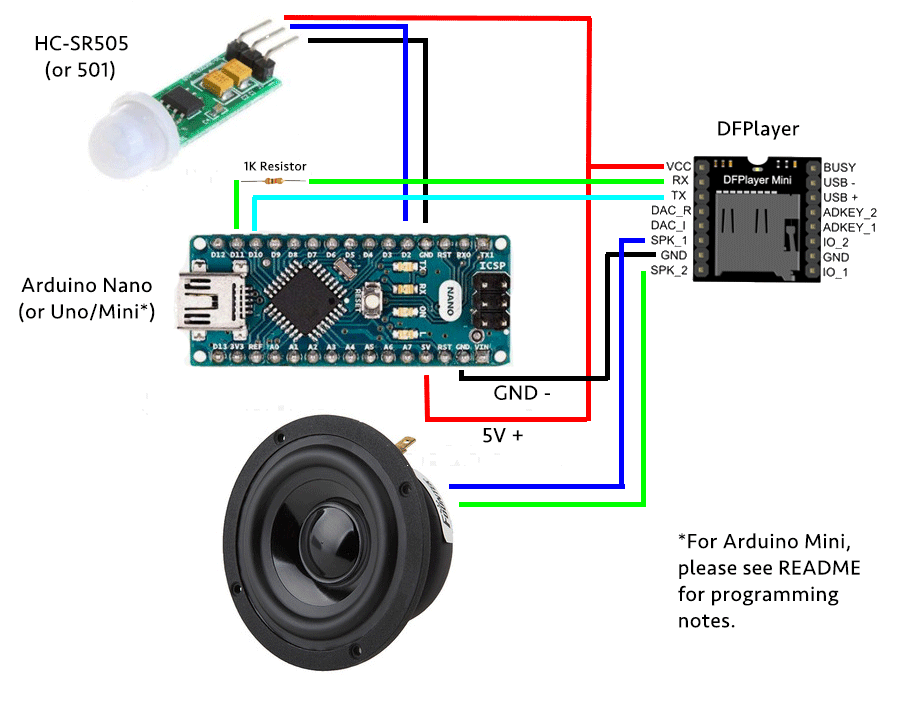
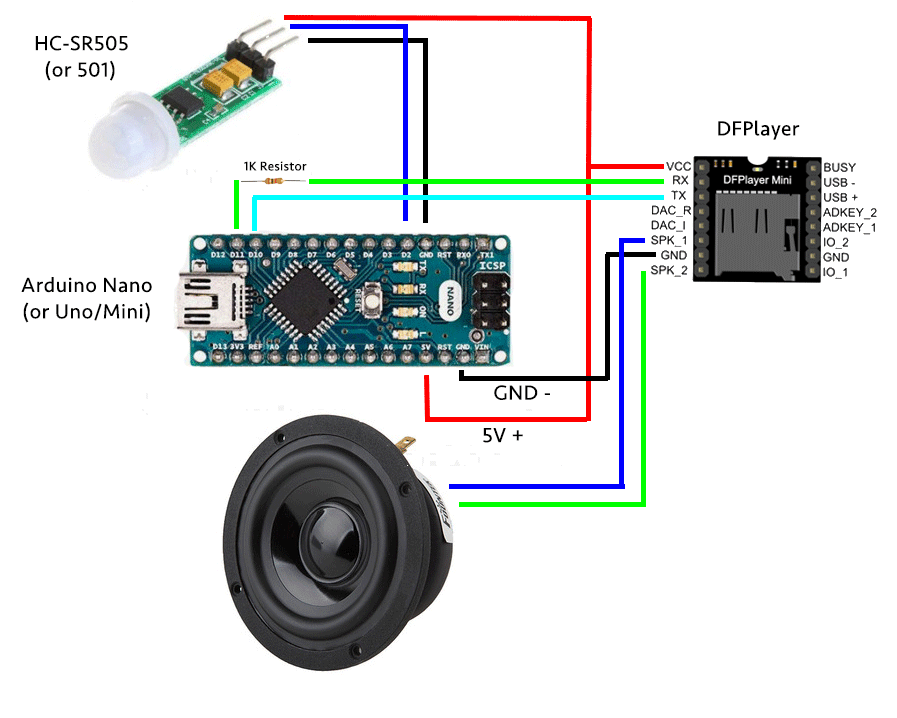
diagram updates

Changed region(s): [[0.7492, 0.7354, 0.9677, 0.8886], [0.0, 0.429, 0.1873, 0.4596], [0.2185, 0.1226, 0.2809, 0.1838]]

diff --git a/README.md b/README.md
@@ -26,9 +26,6 @@ This is the maximum number of files your have loaded on your SD card.  For examp
 
 This is the volume for the DFPlayer.  It affects BOTH the speaker lines out AND the DAC lines.  You could also add a potentiometer and modify the sketch to read that and set the volume, but if you add an amplifier board with a volume control, just set this to 30 (max) and use the volume control on the amplifier.
 
-### Arduino Mini
-If you are using an Arduino Mini/Pro Mini, you'll need to update the digital pins used for the serial communication between the Arduino and DFPlayer.  Simply wire the RX pin of the DFPlayer to pin D9 on the Arduino, and the TX pin to D8, then change the following line:
-
 ```SoftwareSerial DFSerial(8, 9);```
 
 ## Adding the Sound Files
